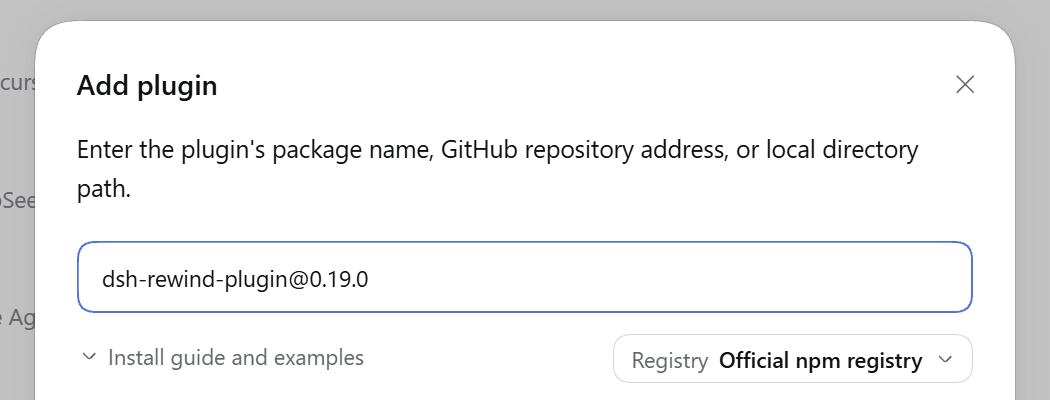
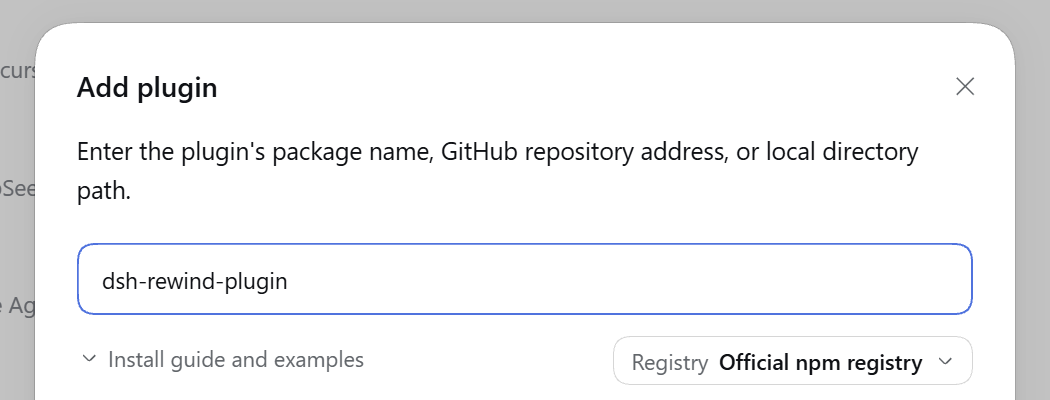
docs: simplify install guidance and refresh screenshot
- default to latest and send version-specific installs to Releases
- refresh the Add-plugin screenshot

diff --git a/README.en.md b/README.en.md
@@ -34,19 +34,17 @@ Every user message carries a **↶ rewind** button in its action row. Clicking i
 
 ## Install
 
-Check your local DSH version, then find the matching plugin version in
-[Releases](https://github.com/SiriLee/dsh-rewind/releases).
-
 **Command line**:
 
 ```sh
-dsh plugin --profile <name> add dsh-rewind-plugin@<version>
+dsh plugin --profile <name> add dsh-rewind-plugin
 ```
 
-**Graphical interface**: the **Plugins** page in the sidebar → **Add plugin** → enter `dsh-rewind-plugin@<version>` → install → restart DSH.
+**Graphical interface**: the **Plugins** page in the sidebar → **Add plugin** → enter `dsh-rewind-plugin` → install → restart DSH.
 
-<img src="assets/screenshots/add-plugin.png" width="600" alt="Add plugin dialog: enter dsh-rewind-plugin@version in the field"><br>
-<sub>The screenshot is an example only — use the version that matches your DSH version.</sub>
+<img src="assets/screenshots/add-plugin.png" width="600" alt="Add plugin dialog: enter dsh-rewind-plugin in the field"><br>
+
+The default install is `latest`, which targets the latest stable DSH release. If you are on an older or alpha DSH version, find the matching plugin version on the [Releases](https://github.com/SiriLee/dsh-rewind/releases) page and install that version explicitly.
 
 > [!WARNING]
 > The npm name `dsh-rewind` belongs to another author's package — install with `dsh-rewind-plugin`.
